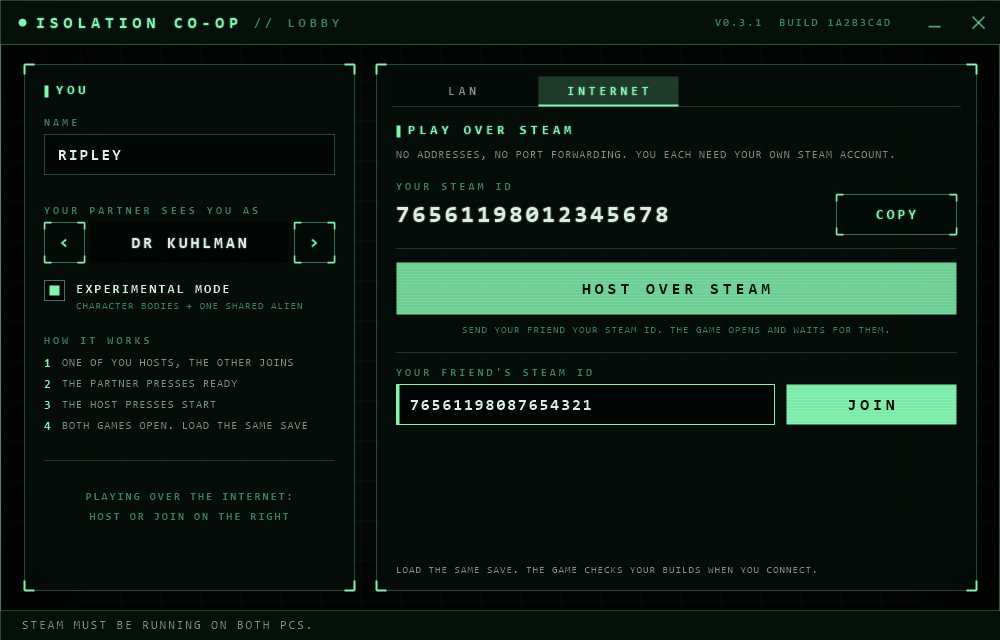
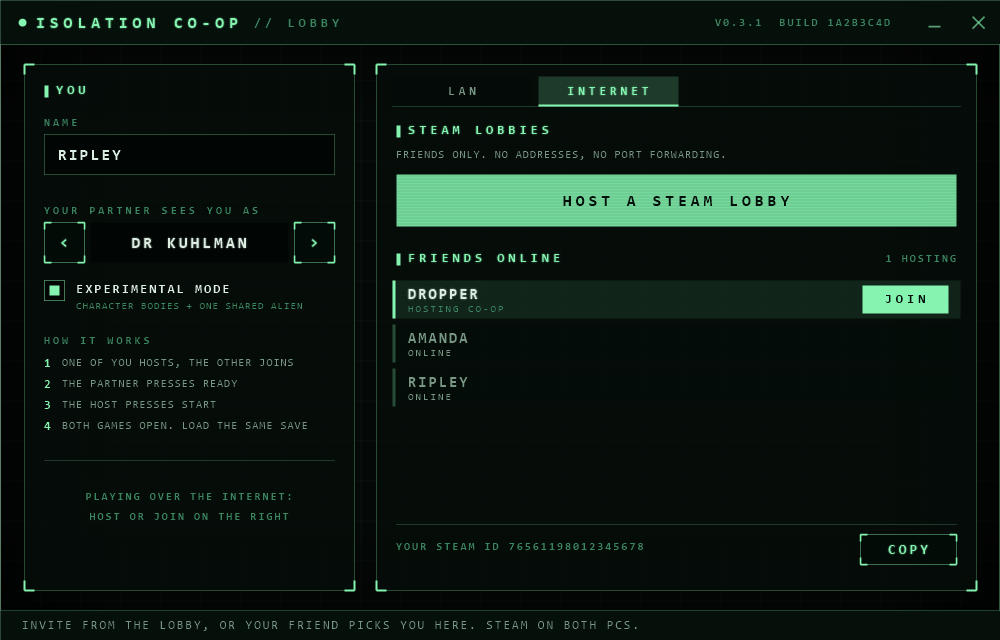
Docs: new -Skins writer, shared alien, carry-along, Steam lobbies

diff --git a/README.md b/README.md
@@ -27,7 +27,7 @@ PC. I haven't played it across two PCs yet. My full test notes are in [docs/test
 | Co-op saves kept apart from your normal Steam Cloud saves | works |
 | Achievements and stats blocked while modded | works (offline test) |
 | Partner marker (name, distance, arrow when off-screen) | works |
-| Internet play from the lobby: Internet tab, your Steam ID with a copy button, host or join by your friend's Steam ID | written and tested offline (Steam ID handling); not run between two Steam accounts yet |
+| Steam lobbies in the lobby window: host a friends-only lobby, friends who are hosting show up with Join, invite friends from the lobby, ready check and save copy over Steam | written; the screens rendered and the save copy's code tested offline (on the LAN). Not run with Steam yet |
 | Regroup: hold F7 to teleport to your partner (with a fade) | works in game (airport, two copies on one PC): lands about a metre behind your partner |
 | Build check in game: different mod or game builds turn world sync off and the overlay says why | written and tested offline, not tried with two different builds yet |
 | LAN lobby (`lobby.exe`): find each other on the network, ready up, both games start connected | works in game on one PC: host, join by address, save copy, ready, start; both games launched together and connected. Not run between two PCs yet |
@@ -37,19 +37,20 @@ PC. I haven't played it across two PCs yet. My full test notes are in [docs/test
 | Items your partner picks up vanish from your world | works |
 | Story steps your partner reaches run in your game | works for one tested step (M04 crowbar), not a whole mission |
 | Dying: you watch through your partner's eyes until they die too, then both reload the checkpoint | works with real deaths in a level. Not yet tested with the alien doing the killing |
-| Partner body: an NPC that walks where your partner walks, so the alien can see them | airport level only so far |
+| Partner body: an NPC that walks where your partner walks, so the alien can see them | works in levels that have the character; with `-Skins`, every level (see Skins) |
 | Skins: your partner shows up as a story character you pick (Taylor, Samuels, Axel...) | works in game in levels that already have the character (airport: both games spawned the partner as Axel and kept them on the partner). Part of the lobby's experimental mode |
+| `-Skins`: the five main characters copied into every level, with a model writer that keeps each level's own bytes | written; a load-and-save gives byte-identical model files and two levels with skins added read back correctly. Not loaded in the game yet |
 | Keycards and tools shared | written, not tried in a level yet |
 | Locked doors: one of you unlocks it (hack, keycard, code, lever, button) or cuts it open, it's open for both | written, not tried in a level yet |
 | Cutscenes: when one starts in your game, your partner is moved to you right away, so you watch it together | the move itself works in game (same as F7); a cutscene starting it not seen yet. On by default (`AIC_CUTSCENE_TP=0` turns it off) |
 | Automatic world sync: every saved world state and every one-time scripted step, in every level, with no per-object rules (1,394 objects found in the level files) | runs in game: events sent and replayed in the airport and in a new game's opening. A shared story step not watched happening on screen yet |
 | Level changes: when one of you takes a lift, tram or exit to another level, the other loads it too | written, not tried in a level yet |
 | Host's alien director drives the joiner's alien (vents, behaviour, stage) | written, not tried in a level yet |
-| One alien in the same place for both players: the joiner's alien follows the host's alien's exact path (30 updates a second, smoothed) | written and tested offline, not tried in a level yet; part of the lobby's experimental mode (`AIC_SHARED_ALIEN=1`) |
+| One alien for both players: the joiner's alien walks and runs the host's alien's path with its own animations (the game's own move orders), faces where it faces, has learned what it has learned, and a kill on the joiner's body kills the joiner | written and its decisions tested offline, not tried in a level yet; part of the lobby's experimental mode (`AIC_SHARED_ALIEN=1`) |
+| Lift rides and other scripted moves: your partner standing next to you goes with you | written and tested offline, not tried in a level yet |
 | New overlay: motion tracker, partner marker, death screens | tracker and marker checked in a level (airport, two copies on one PC); death screens only checked in rendered previews so far |
 | Split screen on one PC through [Couchlink](https://github.com/cranebeaker/couchlink) | recipe written, seats tested by hand, not run inside Couchlink yet |
 | A new game from the start, in co-op | works on one PC: both games started a new game, played the opening and loaded into the Torrens together |
-| Lobbies and Steam invites | planned, see [docs/online.md](docs/online.md) |
 
 ## Installing
 
@@ -90,10 +91,13 @@ To uninstall: `powershell -ExecutionPolicy Bypass -File install.ps1 -Uninstall`.
 The lobby uses UDP 45501 to find games and TCP on its own port for the save copy; the game itself uses UDP
 45500. Windows Firewall asks about `lobby.exe` and `AI.exe` the first time: allow them on private networks.
 
-**Over the internet:** open the *Internet* tab. It shows your Steam ID with a Copy button. The host presses
-*Host over Steam* and sends their ID; the friend pastes it and presses *Join*. Both games start and connect through
-Steam, so nobody needs an IP address or port forwarding. You each need your own Steam account. The save copy and
-ready check are LAN-only for now; the game itself checks that you run the same builds when you connect.
+**Over the internet:** open the *Internet* tab and press **Host a Steam lobby**. Your friends see you under
+*Friends online* as "hosting co-op" and press **Join**, or you invite them from the lobby screen (they accept the
+invite in Steam with their lobby window open). From there it's the same lobby as on a LAN: the same checks,
+**Copy host's save**, Ready and Start, all through Steam, so nobody needs an IP address or port forwarding. You
+each need your own Steam account with the game. While the lobby window is open Steam shows you as playing Alien:
+Isolation; it lets go of Steam just before the game starts. `play-coop.bat steam-host` / `steam-join <SteamID>`
+still work without the lobby (the Copy button gives you your Steam ID for that).
 
 ![Lobby: internet tab](docs/img/lobby_internet.png)
 
@@ -140,25 +144,34 @@ Every skin, with how many of the 20 levels have it (the cards are drawn by `tool
 In a level that doesn't have your pick, you show up as another skin that level has. Exact level lists are in
 `coopnet/skins.h`.
 
-**`-Skins` is off.** It used to copy the five main characters into every level with `tools/skinprep`, but in
-game testing the levels it wrote crashed the game while loading. The cause is the library it uses: loading a
-level with CathodeLib and saving it back unchanged already breaks it, because the level's model files
-(`LEVEL_MODELS.PAK`, `MODELS_LEVEL.BIN`) come out smaller and the game rejects them. That's the case in 0.12.2 and
-in the current staging build. If you installed v0.2.0 or v0.3.0 with `-Skins`, installing this version puts your
-original level files back for you (or use Steam's "Verify integrity of game files"). Until that's fixed,
-character bodies only appear in levels that already have the character, and elsewhere your partner is the
-overlay marker only.
+To get the five main characters (Taylor, Samuels, Axel, Ricardo, Marlow) into every level, install with `-Skins`
+(needs the [.NET 8 runtime](https://dotnet.microsoft.com/download/dotnet/8.0), a few minutes, game closed):
+
+```
+powershell -ExecutionPolicy Bypass -File install.ps1 -Skins
+```
+
+`tools/skinprep` copies each character's model, with everything it renders with, into the levels that lack it.
+v0.2.0 and v0.3.0 did this with CathodeLib's model writer, and the game couldn't load those levels: CathodeLib
+rebuilds a level's model files (`LEVEL_MODELS.PAK`, `MODELS_LEVEL.BIN`) from what it parsed, and they came out
+smaller and wrong even with nothing added. Now skinprep writes those two files itself (`ModelAppend.cs`): the
+level's own bytes stay exactly as they are and the new models are added at the end, copied raw from the level they
+come from with only their reference numbers changed. Loading a level and saving it back now gives byte-identical
+model files, and each written level is read back and checked before it's installed. The originals are backed up to
+`coop_backup\skins\` and put back when you uninstall (or use Steam's "Verify integrity of game files"). If you
+installed v0.2.0 or v0.3.0 with `-Skins`, the installer puts those broken levels back first. Not checked yet:
+loading the new levels in the game.
 
 ## Known issues
 
-- The partner marker is an overlay, so you can see it through walls. The 3D body only exists in the airport
-  level for now.
-- Each game still has its own alien. They follow the same director decisions but hunt on their own between them.
-- Your partner has a body only in levels that already contain the character models (see Skins); elsewhere
+- The partner marker is an overlay, so you can see it through walls.
+- Without `-Skins`, your partner has a body only in levels that already contain the character models; elsewhere
   they're the marker and tracker blip, and the alien in your game can't see them.
-- Things that happen over and over (lift rides inside a level, a terminal you can use again, music and light
-  zones) stay with the player who did them; only saved state and one-time steps are shared. Start from the same
-  save.
+- With the shared alien, its attacks and kill animations only play in the host's game; in the joiner's game it
+  walks the same path and the joiner dies when the host's alien gets their body.
+- Things that happen over and over (a terminal you can use again, music and light zones) stay with the player who
+  did them. Lift rides take a partner standing next to you along, but each game's lift doors and cab still work
+  on their own. Start from the same save.
 - A level change you follow skips the save the game normally makes right before it.
 - Only deaths that go through the game's normal death script are caught. If one slips through you just get
   the regular game-over menu (look for `life: player died` in the log).
@@ -235,16 +248,13 @@ second copy). Logs go to `coop_logs\`.
 
 ## What I'm working on next
 
-1. Run the new parts in the game: skins in the levels skinprep changed, the shared alien, door unlocks and
-   level changes, and a game started from the lobby.
-2. One shared alien that really hunts both players: today the joiner's alien is only kept near the host's.
-   Next, a kill on the joiner's body should count as the joiner's death.
-3. A death by the alien, then a full mission with two players.
-4. Two PCs, two Steam accounts.
-5. Run the recipe inside Couchlink.
-6. Steam lobbies and invites (ready check and save copy over Steam), on the same lobby protocol as the LAN lobby
-   ([docs/online.md](docs/online.md)).
-7. More world sync: terminals, rewiring, cutscenes.
+1. Run the new parts in the game: the levels the new skinprep writes, the shared alien driven by move orders,
+   carry-along in lifts, door unlocks, level changes, and Steam lobbies with two accounts.
+2. A death by the alien, then a full mission with two players.
+3. Two PCs.
+4. Run the recipe inside Couchlink.
+5. More world sync: terminals, rewiring.
+6. GOG and Epic builds (their addresses differ).
 
 ## Credits
 

diff --git a/docs/how-it-works.md b/docs/how-it-works.md
@@ -41,7 +41,9 @@ flowchart LR
 | Where you are and where you're looking | 20 times a second | marker, tracker, partner body, spectating |
 | Something you did to the world (a door, an item, a story step...) | when it happens, sent 3 times | so it happens in their game too |
 | Alive, dying, dead, spectating | every half second and on every change | the co-op death rules |
-| Where your alien is | 10 times a second | tracker, bio-monitor, shared alien |
+| Where your alien is | 30 times a second | tracker, bio-monitor, shared alien |
+| The host's alien in full: facing, speed, in the vents, its setup, what it has learned, your body's deaths | 30 times a second (shared alien only) | the joiner's alien copies it |
+| "A script just moved me from here to there" | when it happens, sent 3 times | lift rides together |
 | Which character you want to be seen as | every 2 seconds | skins |
 
 Every message carries a version and a checksum; anything else is dropped. It's all small: well under 10 KB a
@@ -183,11 +185,19 @@ dying together) keeps working. The lobby makes the same check before you start.
 - **One director.** The host's game decides when the alien comes out of the vents, when it retreats and how
   aggressive it is. Those decisions are sent to the joiner's game, whose alien follows them. The joiner's game
   never sends its own.
-- **Shared alien (experimental).** The host sends its alien's position 30 times a second. The joiner's game plays
-  that path back a few hundredths of a second behind, smoothing between updates, and every frame puts its own
-  alien on that exact spot whenever it's more than 10 cm off. A sudden jump (the alien leaving through a vent
-  somewhere else) is followed as a jump, not a slide across the map. What isn't shared yet is the way it faces
-  and which animation it plays; those still come from the joiner's own alien.
+- **Shared alien (experimental).** The host's alien is the real one: it thinks, hunts and kills as in the
+  single-player game, and it sees the joiner's body like any other target. The joiner's alien is a copy:
+  - Its behaviour tree doesn't run, so it never decides anything of its own.
+  - Every frame it gets the game's own "move this way" order towards where the host's alien is, at the same
+    speed, so it walks, runs and turns with its own animations (the method is OpenCAGE's "possess a character").
+    When it's there it stops and turns to the host's alien's facing. More than 3 m off, a floor up or down, or in
+    the vents, it's put on the spot instead.
+  - Its alien setup and what the game has let it learn (its tricks, and the counters that unlock them) are set to
+    the host's.
+  - When the host's alien kills the joiner's body, the joiner dies in their own game, with the game's own kill.
+  - On the host, the joiner running near the alien makes noise it hears, as the player's own running would.
+
+  Its attacks and kill animations still only play in the host's game.
 
 ## Dying together
 
@@ -234,9 +244,11 @@ sequenceDiagram
 If the game doesn't show up on the joiner's list (VPN LANs often block broadcasts), type the host's address
 under *Join by address*.
 
-Over the internet, the *Internet* tab skips all of that: the host starts their game over Steam and shares their
-Steam ID, the friend types it in, and Steam connects the two games. The ready check and save copy there are still
-to come; the in-game build check covers the most important part.
+Over the internet, the *Internet* tab does the same with a Steam lobby. The host creates a friends-only lobby;
+friends see "hosting co-op" next to the host's name and press Join, or the host invites them. The joiner's lobby
+then asks the host's for its "there's a game here" over Steam, and from there it's the same conversation as above,
+carried by Steam instead of the LAN, including the save copy. On Start both lobby windows let go of Steam and the
+games connect to each other over Steam. Details in [online.md](online.md).
 
 ## Skins
 
@@ -246,14 +258,23 @@ Dropper7856), naming the character's model, skeleton and animations. Then it kee
 partner is. See the [skin cards](../README.md#skins-experimental) for which characters exist and where.
 
 A level can only show a character whose model it contains, and out of the box most characters are in one to
-four levels. Copying models into every level (`tools/skinprep`) is switched off: the library it uses writes the
-level's model files in a way the game won't load (found in in-game testing; details in [testing.md](testing.md)).
+four levels. `install.ps1 -Skins` copies the five main characters into every level (`tools/skinprep`). The scripts,
+materials, textures and the rest are written with CathodeLib, but the two model files are written by skinprep's
+own `ModelAppend.cs`, because CathodeLib's model writer produced files the game couldn't load (found in in-game
+testing; details in [testing.md](testing.md)). It keeps the level's model files byte for byte and adds each new
+model at the end: the model's records and data are copied raw from the level it comes from, and only the numbers
+that point at other things change (names, the next submesh and LOD, material, collision, morphs, vertex formats,
+bones). Then every file the level's scripts point at is checked to point at the new model.
 
 ## What it doesn't do (yet)
 
-- Things that can happen again and again (riding a lift inside a level, using a terminal twice) aren't shared;
-  only saved state and once-only steps are. Start from the same save.
+- Things that can happen again and again (using a terminal twice, music and light zones) aren't shared; only
+  saved state and once-only steps are. Start from the same save.
+- Lift rides: when a script moves you in one go (a lift between floors), your partner's game is told where from
+  and where to, and if they were standing within 3 m of where you left, they're moved by the same amount. Nothing
+  about lifts is known to the mod, so it works for any scripted move. Each game's lift doors and cab still run on
+  their own.
 - Your partner's body walks by being moved, not by playing walking animations.
-- The joiner's alien follows the host's alien's position exactly, but faces and animates on its own.
-- The newest parts (cutscene teleport, automatic world sync, skins in game, the shared alien, lock and level-change sync, starting
-  from the lobby) haven't been run in the game yet. [testing.md](testing.md) lists what has.
+- The shared alien's attacks and kills only play in the host's game.
+- The newest parts (the shared alien, carry-along, the new `-Skins` levels, Steam lobbies, cutscene teleport,
+  lock and level-change sync) haven't been run in the game yet. [testing.md](testing.md) lists what has.

diff --git a/docs/online.md b/docs/online.md
@@ -1,6 +1,6 @@
 # Online play: plan
 
-Status: the **LAN lobby is built** (`lobby/`, tested offline). Steam lobbies are **planned, not implemented**.
+Status: the **LAN lobby is built** and works in game on one PC. **Steam lobbies are built** (`lobby/lobbysteam.c`), not run with Steam yet.
 
 ## LAN lobby (done)
 
@@ -29,14 +29,33 @@ Not tested yet: two PCs, and a game started from the lobby.
 Steam relays the traffic, so nobody has to forward ports. I tested it on one PC: one account talking to itself
 (loopback), then two copies over UDP on localhost. I haven't tested it on two PCs with two accounts yet.
 
-## What this step adds
+## Steam lobbies (built, not run with Steam yet)
 
-1. **Steam lobbies and invites instead of Steam IDs.** Same HELLO/STATE packets as the LAN lobby, over Steam P2P. The host creates a friends-only, 2-member lobby with
-   `ISteamMatchmaking::CreateLobby` and opens the invite dialog (`ISteamFriends::ActivateGameOverlayInviteDialog`).
-   The friend accepts in Steam. Steam starts the game with `+connect_lobby <id>` (or sends `GameLobbyJoinRequested_t`
-   if it is already running), and coopnet joins the lobby and takes the owner's Steam ID as its peer. Rich presence
-   `connect` lets friends join from the friends list too. These interfaces are in the same `steam_api.dll` that
-   steamwrap already wraps, reached through the same flat `SteamAPI_*` exports `steamnet.c` uses.
+`lobby/lobbysteam.c`. The lobby window loads the game's own `steam_api` (`steam_api_real.dll` once the mod is
+installed) and starts it with the game's app ID, so Steam sees you playing Alien: Isolation while it's open.
+
+- **Host:** `CreateLobby` (friends-only, two members), tagged `aic=1`.
+- **Finding it:** a friend in one of the game's lobbies shows it in their game info (`GetFriendGamePlayed`), so the
+  Internet tab lists online friends with the ones hosting first, each with **Join**. No lobby browser and no IDs.
+- **Invites:** the lobby screen lists online friends with **Invite** (`InviteUserToLobby`). Accepting the invite
+  in Steam while the lobby window is open joins it (`GameLobbyJoinRequested_t`). Steam's own invite dialog isn't
+  used: it's part of the overlay, which doesn't draw on the lobby's plain window.
+- **Then the same lobby protocol as on a LAN** (`lobbyproto.h`), carried over Steam P2P on channel 6: a Steam
+  account is an `LbAddr` with port `LBS_PORT`, so one state machine handles both, and LAN broadcasts stay on the
+  LAN. The joiner sends the host a probe over Steam and joins the beacon that comes back, like *Join by address*.
+- **Save copy** uses the LAN copy's format and code (`lbnet_serve_stream` / `lbnet_fetch_stream`) over a reliable
+  P2P stream on channel 5, with the same backup of the joiner's save.
+- **Start:** both windows leave the Steam lobby and shut Steam down, then start the game in Steam mode connected
+  each other over Steam (the joiner to the host's Steam ID in `AIC_COOP_PEER_STEAM`), the same as
+  `play-coop.bat steam-host` / `steam-join`.
+
+Method slots come from the Steamworks headers for the interface versions the game's `steam_api.dll` has:
+SteamMatchMaking009, SteamFriends014, SteamNetworking005.
+
+## Still planned
+
+1. **Joining from an invite with the lobby closed.** Steam then starts the game itself with `+connect_lobby <id>`;
+   coopnet could pick that up and open the lobby window. For now, open `lobby.exe` first.
 2. **Handshake before sharing a world** (`OnlineHello`). Both games compare:
    - the mod version;
    - the `AI.exe` build;

diff --git a/docs/testing.md b/docs/testing.md
@@ -5,7 +5,7 @@ What I ran, on what, and what came out. Most of my in-game tests use two copies 
 
 ## Offline suite
 
-`build.ps1` runs these on every build (no game needed). Last run 2026-11-06:
+`build.ps1` runs these on every build (no game needed). Last run 2026-11-09:
 
 ```
 steamwrap ABI test:   40 passed, 0 failed
@@ -13,15 +13,30 @@ protocol over UDP:    18 passed, 0 failed  (476/476 packets, loss and reorder si
 overlay projection:   10 passed, 0 failed  (cases taken from in-game measurements)
 death rules:          31 passed, 0 failed  (spectate, both down, disconnect, give up, early load, stale packets, solo)
 skins:                38 passed, 0 failed  (spawn request matches AI-MP's layout, level names, skin choice, packet)
-automatic sync:       52 passed, 0 failed  (generated table sorted and complete, known entities in/out, alien playback incl. vent jumps and
+automatic sync:       83 passed, 0 failed  (generated table sorted and complete, known entities in/out, alien playback incl. vent jumps and
                                             clock wrap; cutscene tables, landing spot, who moves, cutscene packet;
-                                            regroup, teleport fade, build check packet)
+                                            regroup, teleport fade, build check packet; the joiner's alien: walk,
+                                            stop, turn, snap, vents, full alien packet; carry-along: what counts as
+                                            a scripted move, who goes along, carry packet)
                       + gen_syncmap selftest (what counts as saved state, once-only, or a player's own)
 lobby:                62 passed, 0 failed  (state machine on a fake clock, then real UDP join/ready/start and TCP save copy on loopback;
-                                            Steam ID parsing)
+                                            Steam ID parsing; the save copy now runs on the stream code the Steam copy uses)
 motion tracker:       14 passed, 0 failed  (yaw, pitch ignored, motion window, teleports, ping rate)
 steam transport:      24 passed, 0 failed  (fake steam_api checks the MSVC argument layout both ways)
 ```
+
+## skinprep's model writer (files only, no game), 2026-11-09
+
+On the test copy's level files. `skinprep --roundtrip` loads a level and saves it with nothing added; `--check`
+adds the skins, writes the level to a staging folder, reads it back and checks it, then deletes it (nothing
+installed).
+
+- BSP_TORRENS round trip: `LEVEL_MODELS.PAK` and `MODELS_LEVEL.BIN` byte-identical to the originals (CathodeLib's
+  writer made them 87 KB and 178 KB smaller on HAB_AIRPORT), 0 records re-pointed.
+- BSP_TORRENS (+ AXEL, RICARDO, MARLOW) and HAB_AIRPORT (+ TAYLOR, SAMUELS, RICARDO, MARLOW): written and read
+  back; every added character's scripts resolve to models, materials, shaders and textures in the written level,
+  with the same mesh data as in its source level.
+- Not done yet: loading those levels in the game.
 
 ## Installer
 
